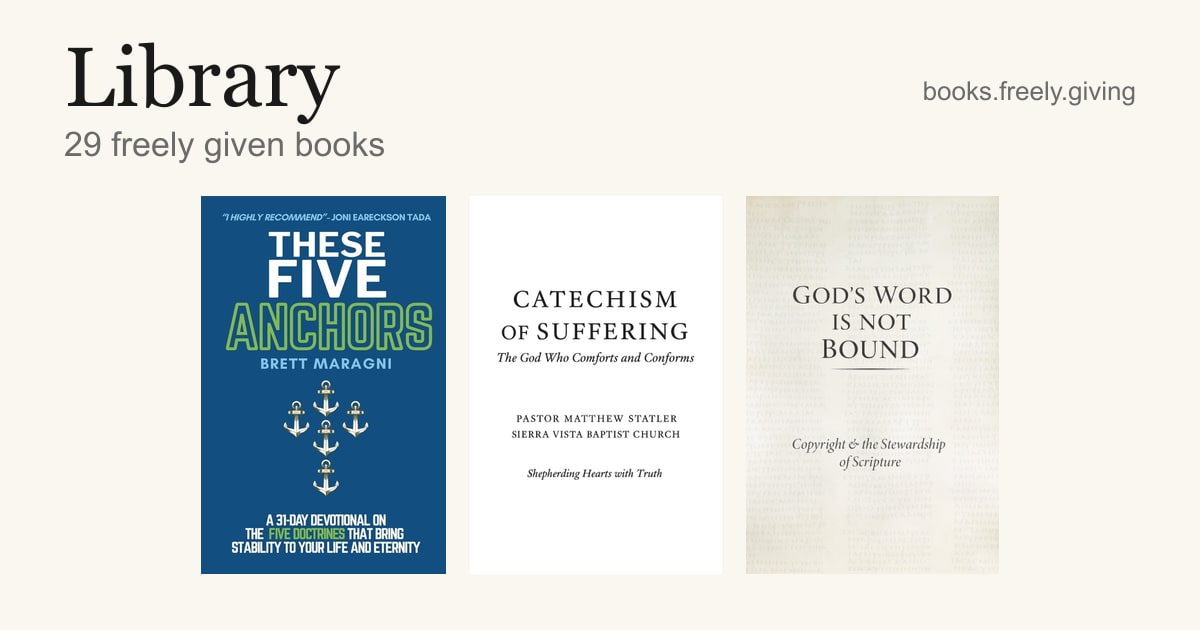
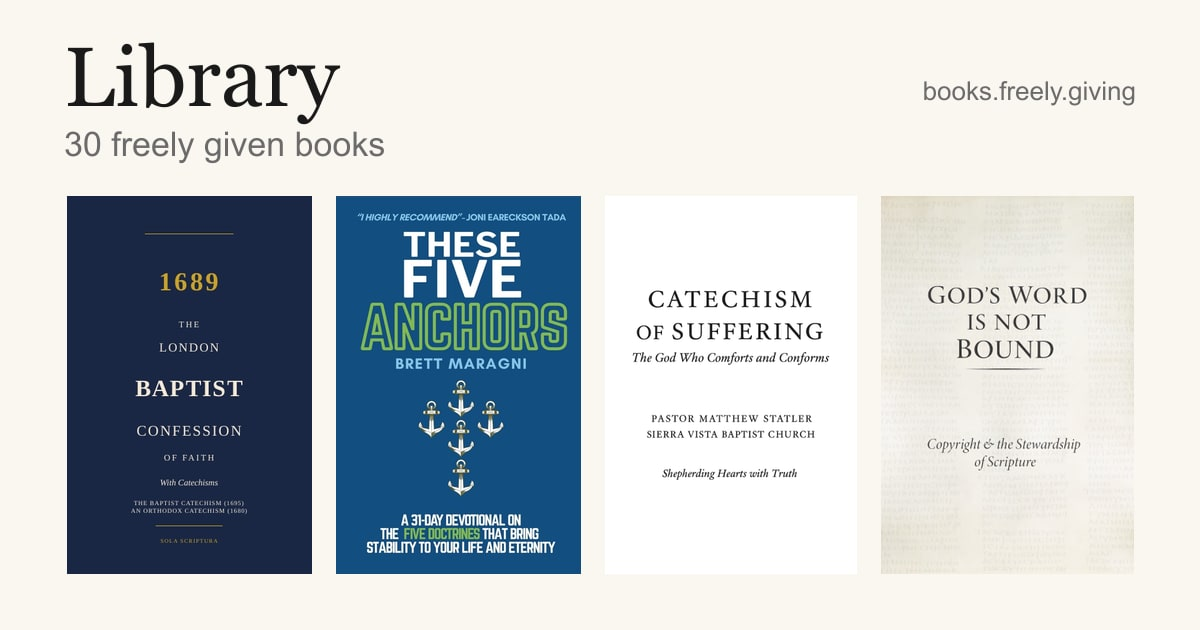
add The 1689 Baptist Confession of Faith
Confession, Baptist Catechism and An Orthodox Catechism in one volume,
prepared by Courtney Hicks and Michael Coughlin. PDF and EPUB uploaded
to R2; Read Online points at confess.catechize.ing, print at Lulu.

This is the first book with no author credit — a confession is issued by
an assembly, not written by someone. That exposed a mismatch between the
two places a book's URL was built: the route fell back to an 'unknown'
[authorSlug] while BookItem dropped the segment entirely, so every
listing would have linked to a URL the build never generated. Both now
call bookAuthorSlug(), which falls back to the first preparer.

Changed region(s): [[0.0308, 0.3016, 0.925, 0.9349], [0.8325, 0.3016, 0.9558, 0.3921], [0.0617, 0.2111, 0.0925, 0.2413]]

diff --git a/src/lib/data.js b/src/lib/data.js
@@ -320,3 +320,14 @@ export function personPhotos(person, limit = 2) {
 export function bookSlugFromPath(path) {
   return path.split("/").pop();
 }
+
+/**
+ * The [authorSlug] segment of a book's URL. Normally the primary author, but a book can
+ * have no author at all — a confession is issued by an assembly, not written by someone —
+ * and then the first preparer stands in, so the URL still names a person with a page.
+ * Both the route and BookItem read it from here; when they disagreed the listings linked
+ * to a URL the build never generated.
+ */
+export function bookAuthorSlug(book) {
+  return book.authors?.[0]?.slug ?? bookCredits(book, "preparer")[0]?.slug ?? "unknown";
+}
